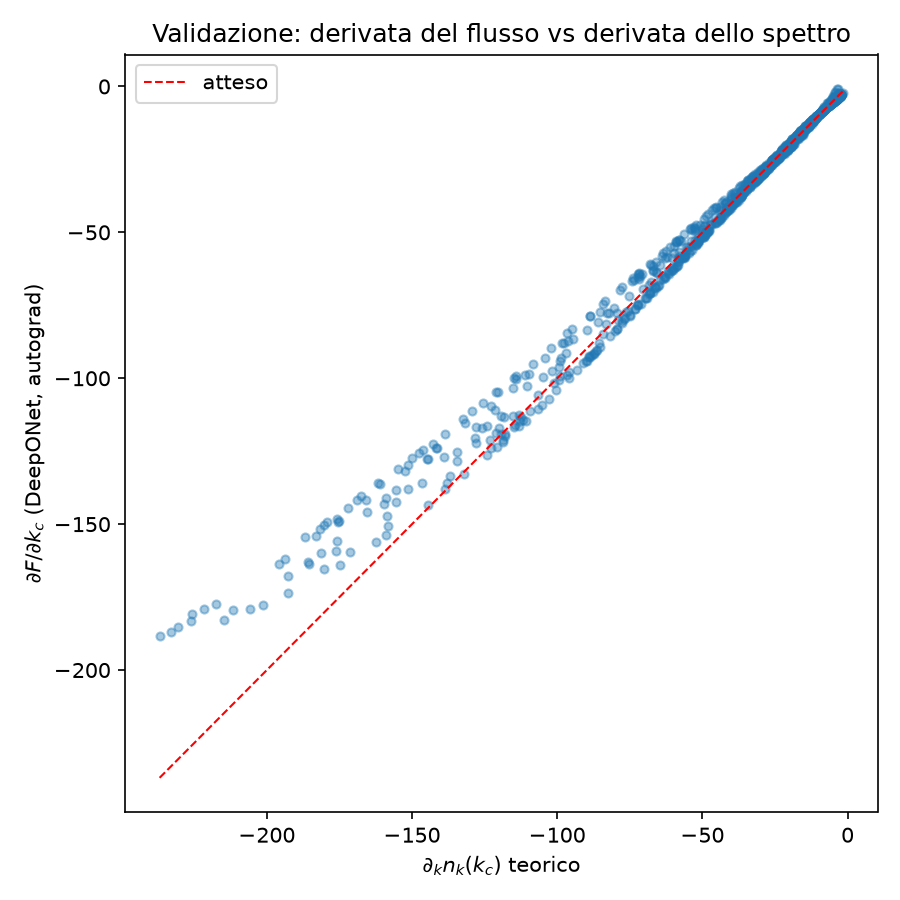
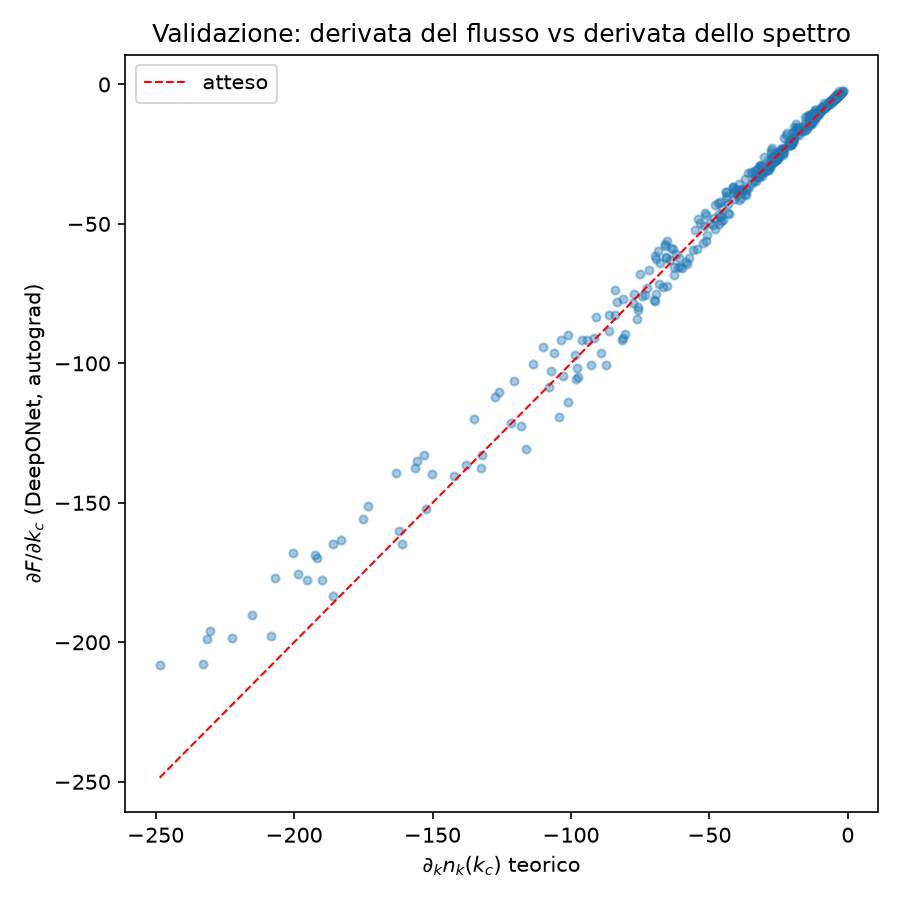
feat: enhance dataset generation with noise and add kernel smoothing function

diff --git a/src/data/deeponet_dataset.py b/src/data/deeponet_dataset.py
@@ -23,24 +23,27 @@ def compute_true_flux(alphas, A, k_c, k_min):
 
 
 def build_deeponet_dataset(alpha_min, alpha_max, n_samples, A, k_min, k_max,
-                            n_sensors, k_c_min, k_c_max, seed=42):
-    """
-    Costruisce il dataset per il DeepONet: per ogni campione, un profilo n_k
-    (su griglia fissa) e un valore di k_c casuale, con il flusso vero corrispondente.
-    """
+                            n_sensors, k_c_min, k_c_max, noise_std=0.01, seed=42):
     rng = np.random.default_rng(seed)
     alphas = rng.uniform(alpha_min, alpha_max, size=n_samples)
-    # invece di campionare k_c uniformemente, sovracampiona vicino al bordo inferiore
     k_cs = rng.beta(a=0.5, b=2.0, size=n_samples) * (k_c_max - k_c_min) + k_c_min
 
     sensor_grid = sample_sensor_grid(k_min, k_max, n_sensors)
-    profiles = generate_power_law_profiles(alphas, A, sensor_grid)
+
+    # PRIMA: profiles = generate_power_law_profiles(alphas, A, sensor_grid)
+    profiles = generate_power_law_profiles_perturbed(alphas, A, sensor_grid, noise_std=noise_std)
+
     F_values = compute_true_flux(alphas, A, k_cs, k_min)
 
     return {
-    "profiles": torch.tensor(profiles, dtype=torch.float32),
-    "k_c": torch.tensor(k_cs, dtype=torch.float32).reshape(-1, 1),
-    "F": torch.tensor(F_values, dtype=torch.float32).reshape(-1, 1),
-    "alphas": torch.tensor(alphas, dtype=torch.float32).reshape(-1, 1),  # aggiunto
-    "sensor_grid": sensor_grid,
-}
+        "profiles": torch.tensor(profiles, dtype=torch.float32),
+        "k_c": torch.tensor(k_cs, dtype=torch.float32).reshape(-1, 1),
+        "F": torch.tensor(F_values, dtype=torch.float32).reshape(-1, 1),
+        "alphas": torch.tensor(alphas, dtype=torch.float32).reshape(-1, 1),
+        "sensor_grid": sensor_grid,
+    }
+
+def generate_power_law_profiles_perturbed(alphas, A, sensor_grid, noise_std=0.01):
+    profiles = np.array([A * sensor_grid ** (-a) for a in alphas])
+    noise = np.random.normal(0, noise_std * np.abs(profiles))
+    return profiles + noise

diff --git a/main_deeponet.py b/main_deeponet.py
@@ -1,15 +1,18 @@
+import torch
+
 from src.models.deeponet import DeepONet
 from src.data.deeponet_dataset import build_deeponet_dataset
 from src.training.train_deeponet import (
     split_deeponet_dataset, train_deeponet, plot_deeponet_loss, plot_flux_prediction_test)
-from src.training.deeponet_analysis import (validate_dF_dkc, plot_dF_dkc_comparison, compute_sensitivity_kernel, plot_sensitivity_kernel)
+from src.training.deeponet_analysis import (validate_dF_dkc, plot_dF_dkc_comparison, compute_sensitivity_kernel,
+                                             plot_sensitivity_kernel, smooth_kernel)
 
-N_SENSORS = 50
+N_SENSORS = 20
 
 data = build_deeponet_dataset(
-    alpha_min=1.0, alpha_max=2.0, n_samples=5000, A=1.0,
+    alpha_min=1.0, alpha_max=2.0, n_samples=2000, A=1.0,
     k_min=0.1, k_max=1.0, n_sensors=N_SENSORS,
-    k_c_min=0.2, k_c_max=0.9
+    k_c_min=0.2, k_c_max=0.9, noise_std=0.02
 )
 
 splits = split_deeponet_dataset(data, train_frac=0.6, val_frac=0.2, test_frac=0.2)
@@ -35,8 +38,9 @@ k_c_fixed = 0.5
 profile_example = test_data["profiles"][0]  # un singolo profilo dal test set
 
 kernel = compute_sensitivity_kernel(model, profile_example, k_c_value=k_c_fixed)
+kernel_smoothed = smooth_kernel(kernel, window=5)
 
 plot_sensitivity_kernel(
-    kernel, data["sensor_grid"], k_c_value=k_c_fixed, k_min=0.1,
+    torch.tensor(kernel_smoothed), data["sensor_grid"], k_c_value=k_c_fixed, k_min=0.1,
     save_path="outputs/sensitivity_kernel.png", show=False
 )

diff --git a/src/training/deeponet_analysis.py b/src/training/deeponet_analysis.py
@@ -1,5 +1,6 @@
 import torch
 import matplotlib.pyplot as plt
+import numpy as np
 
 def validate_dF_dkc(model, profiles, alphas, k_c_values, A=1.0):
     """
@@ -41,6 +42,11 @@ def compute_sensitivity_kernel(model, profile_single, k_c_value):
     F_pred = model(profile, k_c)
     kernel = torch.autograd.grad(F_pred, profile)[0]
     return kernel.squeeze()  # (n_sensors,)
+
+def smooth_kernel(kernel, window=5):
+    """Media mobile per smussare visivamente il kernel di sensibilità."""
+    kernel_np = kernel.detach().numpy()
+    return np.convolve(kernel_np, np.ones(window) / window, mode='same')
 
 
 def plot_sensitivity_kernel(kernel, sensor_grid, k_c_value, k_min=None, save_path=None, show=True):
